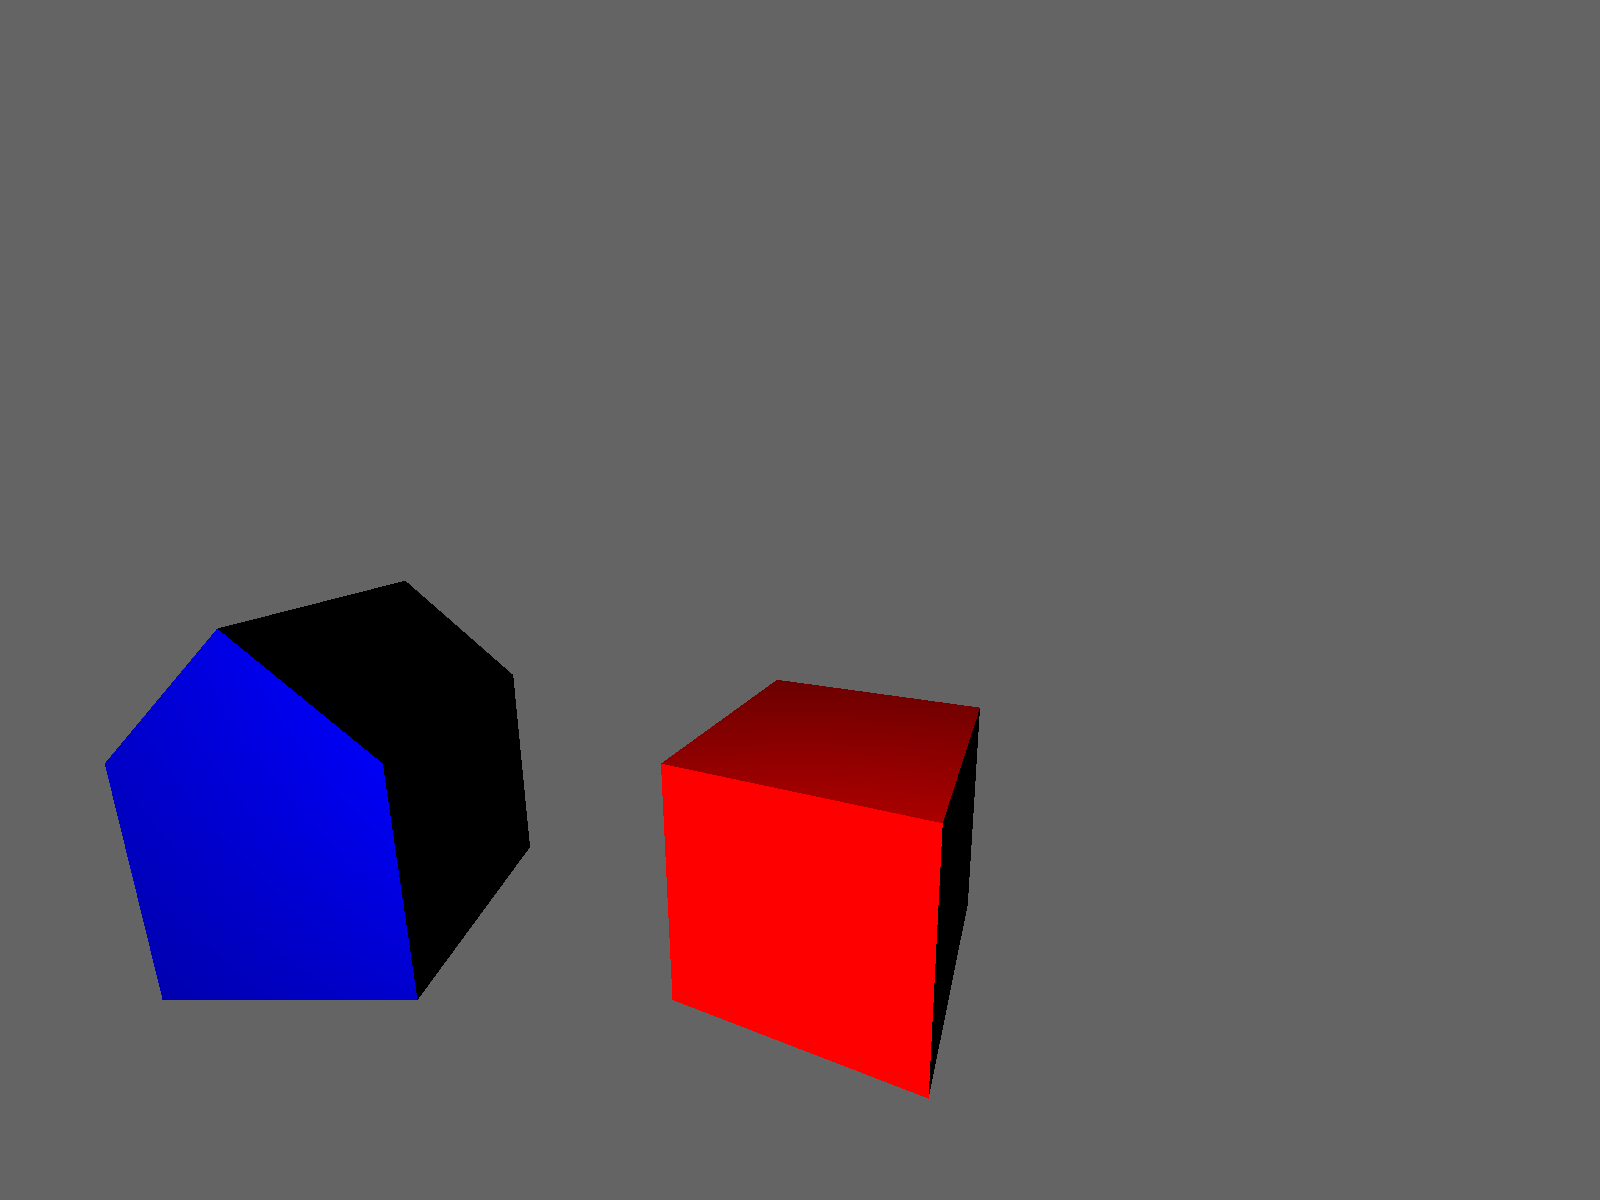
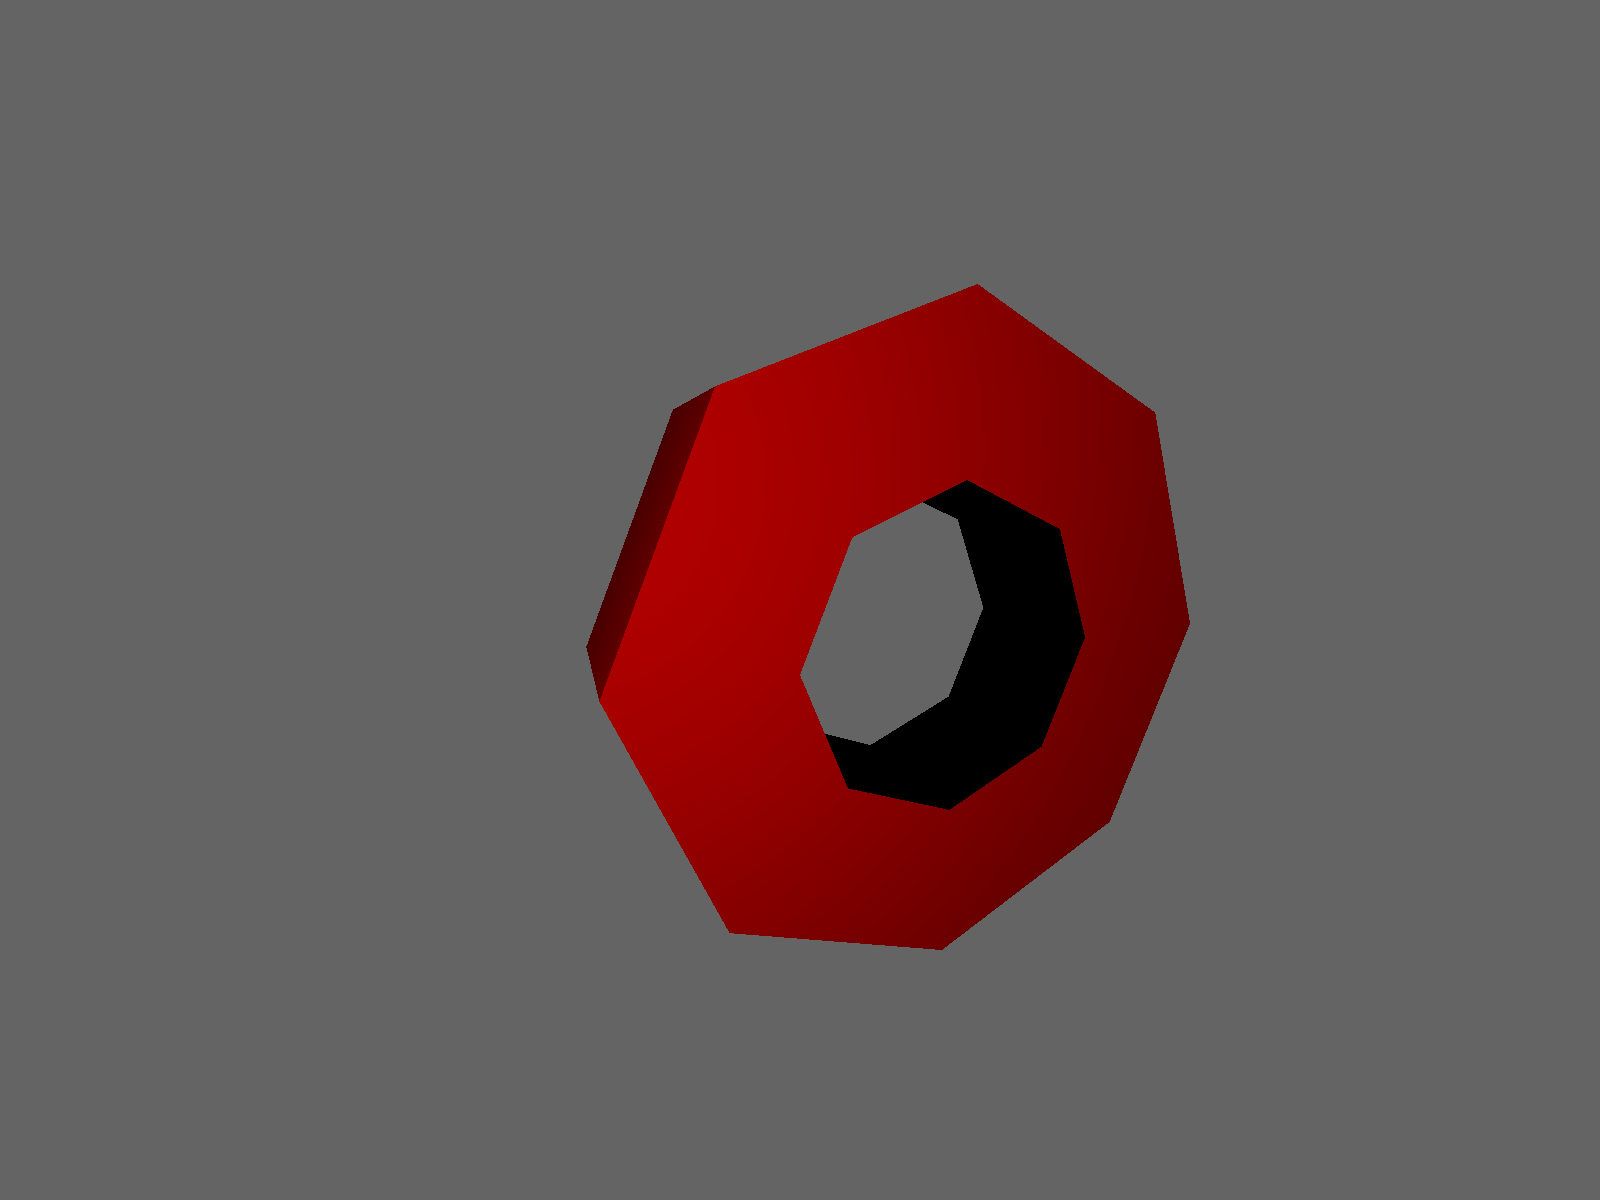
extrude complex form

Changed region(s): [[0.3438, 0.2158, 0.75, 0.925], [0.0625, 0.4625, 0.3438, 0.8325]]

diff --git a/main.go b/main.go
@@ -30,22 +30,28 @@ func main() {
 	m.SetBackgroundColor(m.NewColor(100, 100, 100))
 
 	mat := &m.DiffuseMaterial{m.NewColor(200, 0, 0)}
+	// outline of front face, counterclockwise ordered
+	innerCircle := gen.NewCircle(func(t float64) float64 { return 1 }, 8)
+	outerCircle := gen.NewCircle(func(t float64) float64 { return 2 }, 8)
+	innerPoints := innerCircle.Points(m.Vector{1, 1, 0}, ex, ey, 0)
+	outerPoints := outerCircle.Points(m.Vector{1, 1, 0}, ex, ey, 0)
+	// triangles of front face
+	front := []m.Triangle{}
+	for _, o := range gen.JoinPoints([][]m.Vector{innerPoints, outerPoints}, mat) {
+		t := o.(m.Triangle)
+		front = append(front, t)
+	}
 
-	// base case: a cuboid
-	box := m.NewAABB(m.Vector{0, 0, 0}, m.Vector{1, 1, 1})
-	c := m.NewCuboid(box, mat).Tesselate()
-	rotation := m.RotateY(-math.Pi / 8)
-	translation := m.Translate(m.Vector{-0.5, 0, 2})
-	sharedC := m.NewSharedObject(c, translation.Mul(rotation))
-	scene.Add(sharedC)
+	ef := gen.ExtrusionFace{
+		Front:    front,
+		Outer:    [][]m.Vector{outerPoints},
+		Inner:    [][]m.Vector{innerPoints},
+		Material: mat,
+	}
+	extruded := gen.Extrude(ef, ez)
 
-	// extruded quadrilateral
-	mat = &m.DiffuseMaterial{m.NewColor(0, 0, 200)}
-	q := []m.Vector{{0, 0, 0}, {1, 0, 0}, {1, 1, 0}, {0.5, 1.5, 0}, {0, 1, 0}}
-	extruded := gen.ExtrudeSolidFace(q, ez, mat)
-
-	translation = m.Translate(m.Vector{-1.5, 0, 3})
-	rotation = m.RotateY(math.Pi)
+	translation := m.Translate(m.Vector{0, 0, 3})
+	rotation := m.RotateY(math.Pi / 8)
 	sharedQ := m.NewSharedObject(extruded, translation.Mul(rotation))
 	scene.Add(sharedQ)
 
